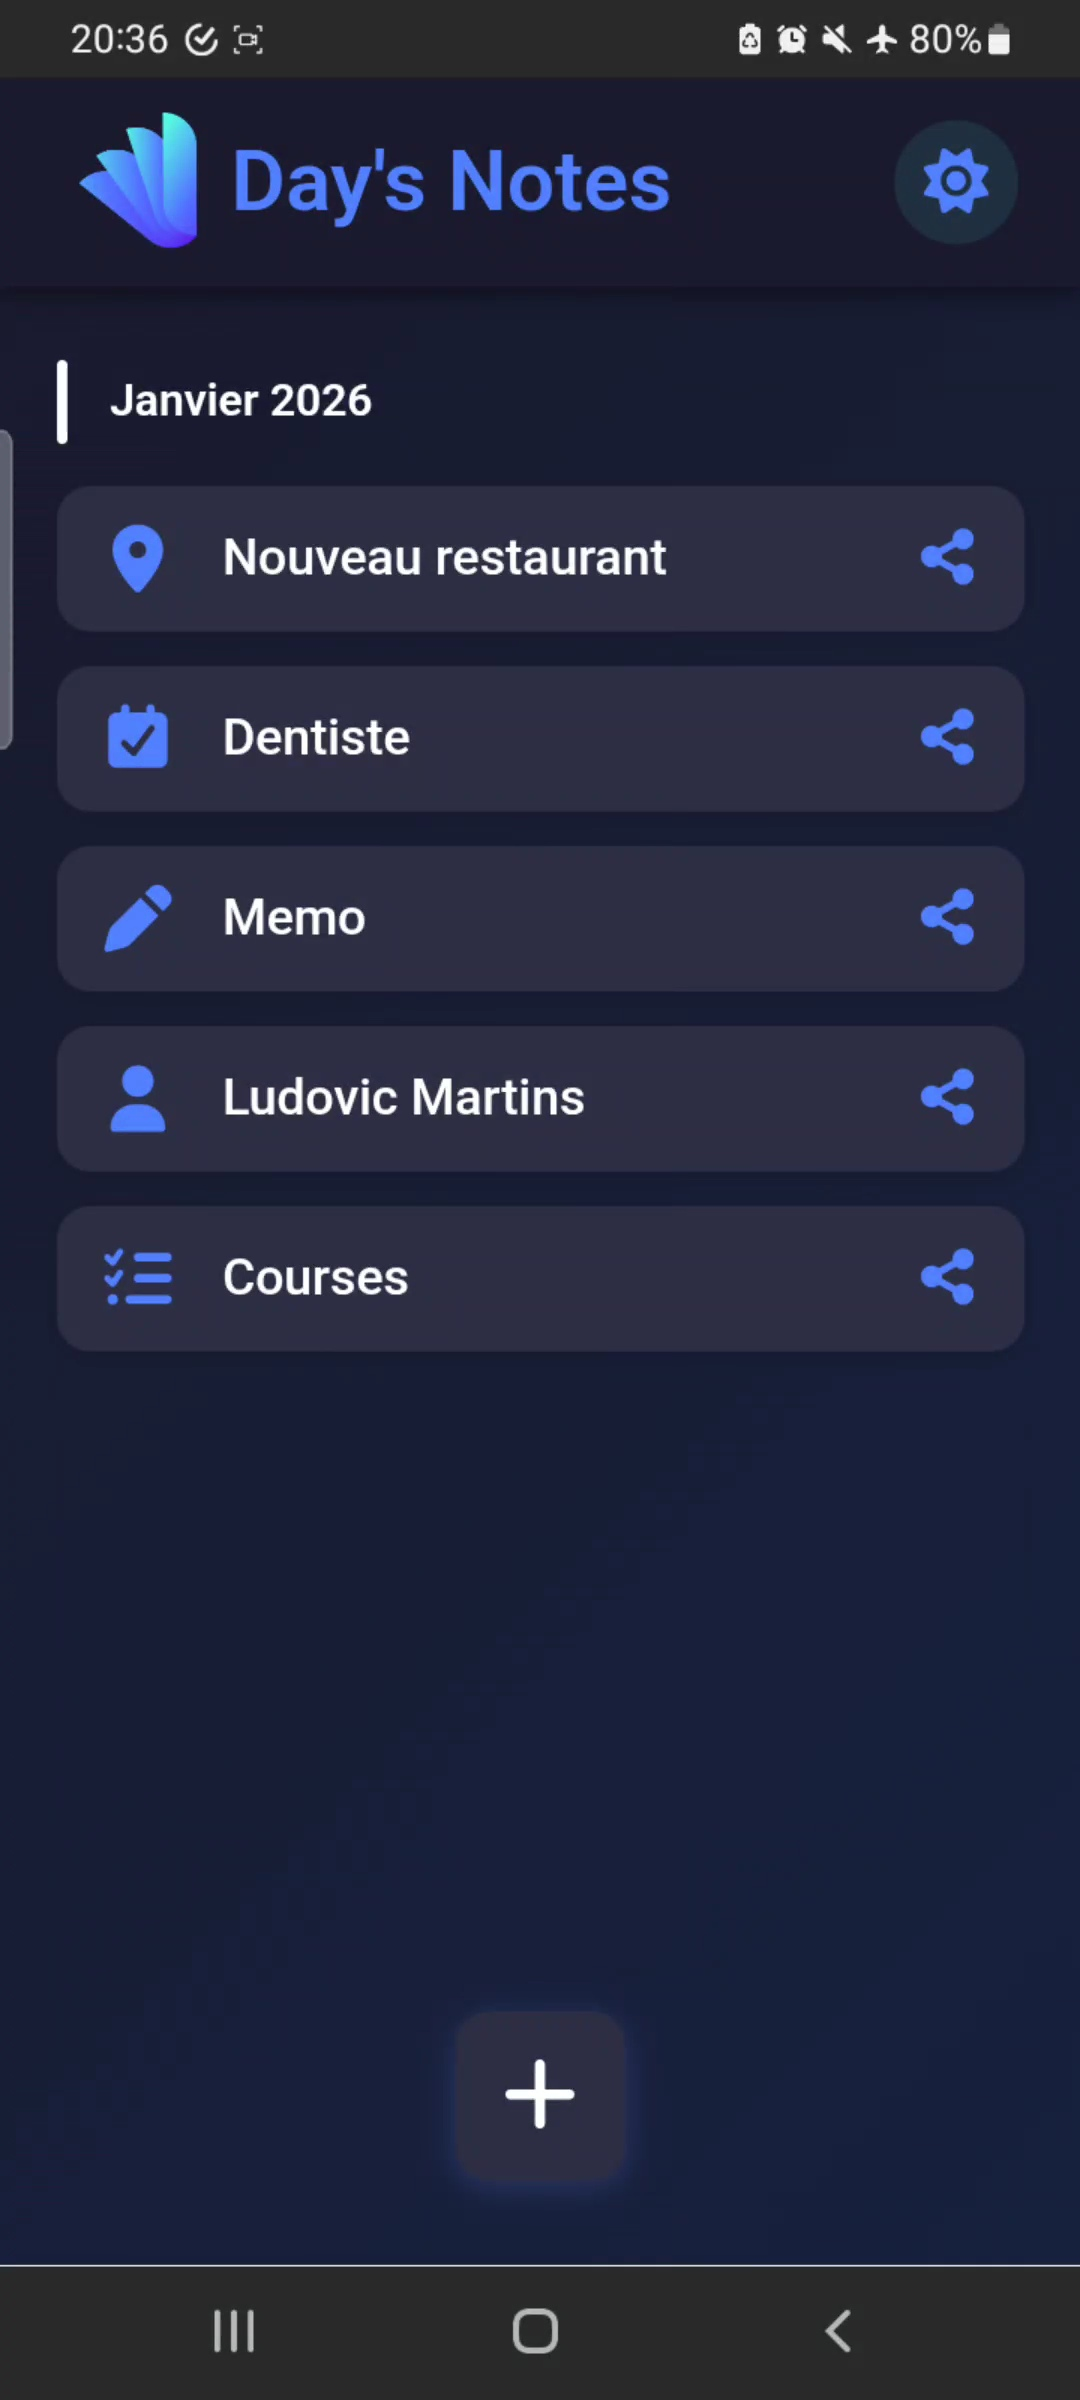
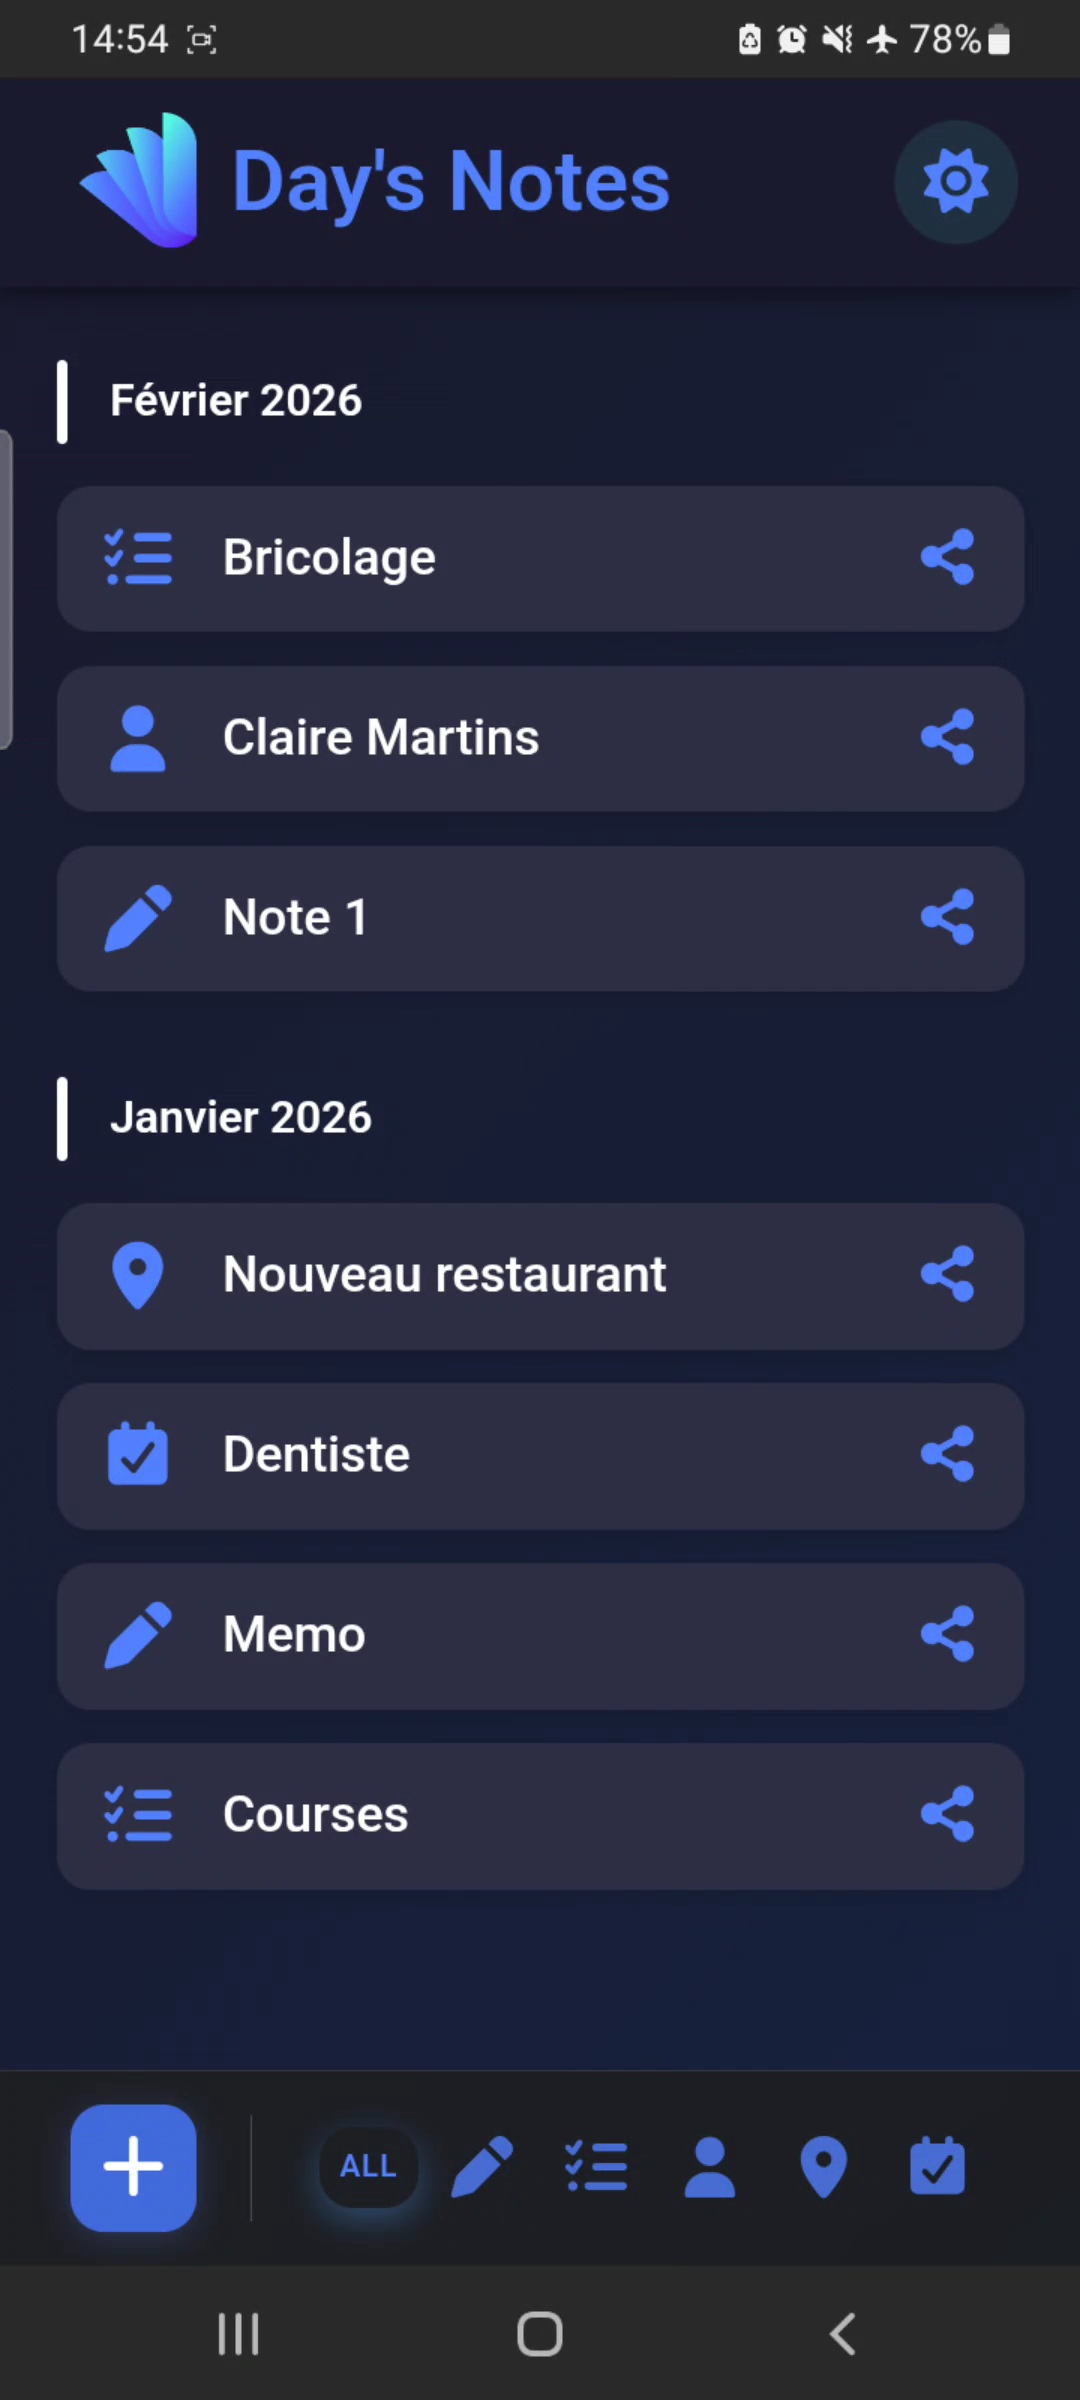
feat: actualisation des captures écran

diff --git a/daysnotes.html b/daysnotes.html
@@ -125,10 +125,7 @@
     <section class="screenshots">
         <h2 class="section-title2">Découvrez l'interface</h2>
         <div class="screenshots-grid">
-            <div class="screenshot-card">
-                <img src="assets/images/applications/ecran_accueil.jpg" alt="Ecran principale">
-                <p class="screenshot-caption">Ecran principal</p>
-            </div>
+
             <div class="screenshot-card">
                 <img src="assets/images/applications/liste_notes.jpg" alt="Affichage des notes">
                 <p class="screenshot-caption">Affichage des notes</p>
@@ -148,6 +145,10 @@
             <div class="screenshot-card">
                 <img src="assets/images/applications/note_agenda.jpg" alt="Créer un rendez-vous">
                 <p class="screenshot-caption">Créez un rendez-vous</p>
+            </div>
+            <div class="screenshot-card">
+                <img src="assets/images/applications/filtre_notes.jpg" alt="Filtre de notes">
+                <p class="screenshot-caption">Filtrez vos notes</p>
             </div>
             <div class="screenshot-card">
                 <img src="assets/images/applications/share.jpg" alt="Partage de note">
